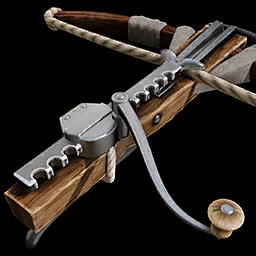
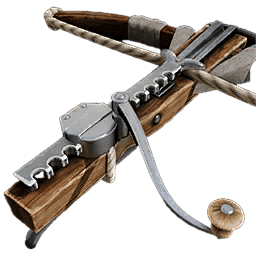
vikings saga

diff --git a/data/src/helper/wiki-links.ts b/data/src/helper/wiki-links.ts
@@ -105,6 +105,11 @@ const wikiLinks: Record<string, Record<string, string>> = {
 
         'JaguarWarrior': 'https://ageofempires.fandom.com/wiki/Jaguar_Warrior',
         'Berserk': 'https://ageofempires.fandom.com/wiki/Berserk',
+        'MountedCrossbowman': 'https://ageofempires.fandom.com/wiki/Mounted_Crossbowman',
+        'VarangianGuard': 'https://ageofempires.fandom.com/wiki/Varangian_Guard_(Age_of_Empires_II)',
+        'Jomsviking': 'https://ageofempires.fandom.com/wiki/Jomsviking',
+        'HearthTroop': 'https://ageofempires.fandom.com/wiki/Hearth_Troop',
+        'Jarl': 'https://ageofempires.fandom.com/wiki/Jarl_(Age_of_Empires_II)',
         'TeutonicKnight': 'https://ageofempires.fandom.com/wiki/Teutonic_Knight',
         'Samurai': 'https://ageofempires.fandom.com/wiki/Samurai_(Age_of_Empires_II)',
         'Huskarl': 'https://ageofempires.fandom.com/wiki/Huskarl_(Age_of_Empires_II)',
@@ -357,6 +362,13 @@ const wikiLinks: Record<string, Record<string, string>> = {
         'Artillery': 'https://ageofempires.fandom.com/wiki/Artillery_(Age_of_Empires_II)',
         'PaperMoney': 'https://ageofempires.fandom.com/wiki/Paper_Money',
         'Bogsveigar': 'https://ageofempires.fandom.com/wiki/Bogsveigar',
+        'Cranequins': 'https://ageofempires.fandom.com/wiki/Cranequins',
+        'Hamask': 'https://ageofempires.fandom.com/wiki/Hamask',
+        'NorthmensFury': 'https://ageofempires.fandom.com/wiki/Northmen%27s_Fury',
+        'ClericalRecruitment': 'https://ageofempires.fandom.com/wiki/Clerical_Recruitment',
+        'ShieldWall': 'https://ageofempires.fandom.com/wiki/Shield_Wall',
+        'VendelLegacy': 'https://ageofempires.fandom.com/wiki/Vendel_Legacy',
+        'Gothikon': 'https://ageofempires.fandom.com/wiki/Gothikon',
     },
 };
 
